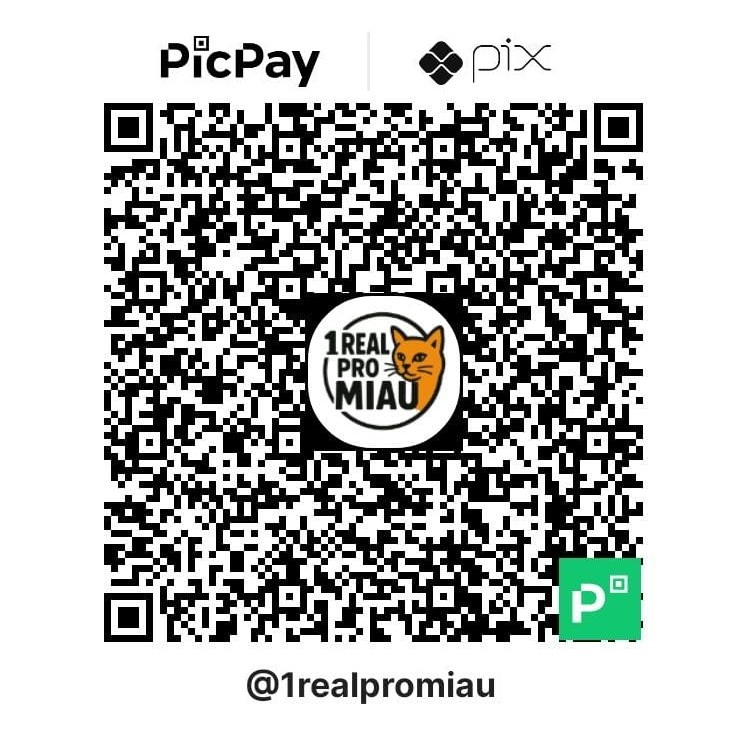
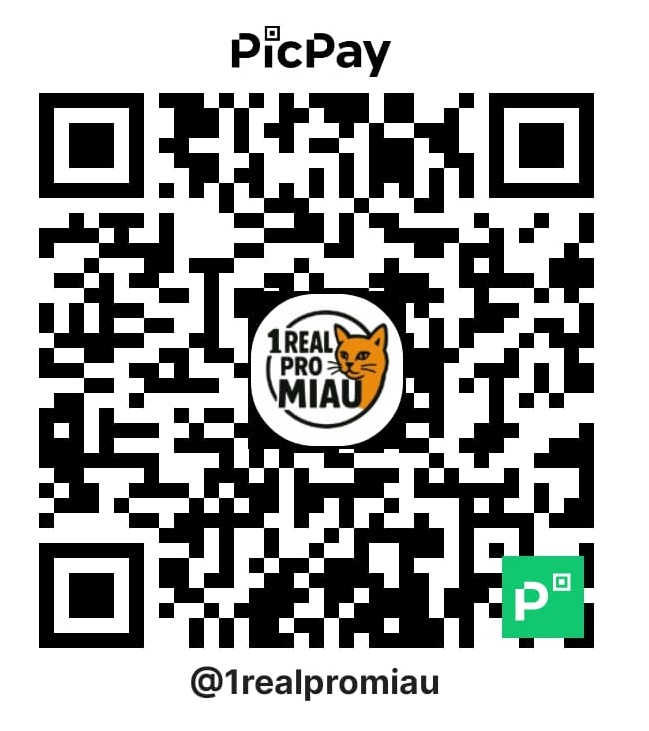
Alterações

diff --git a/index.html b/index.html
@@ -70,7 +70,7 @@
                     <p>Com apenas 1 real você ajuda a alimentar um gato de rua. Todo valor é bem-vindo e faz diferença!</p>
                     
                     <div class="pix-key">
-                        <strong>Chave PIX:</strong> <span id="pix-key">d23daf83-7202-49ab-ac63-1c25ee257680</span>
+                        <strong>Chave PIX:</strong> <span id="pix-key">doar-1realpromiau@outlook.com</span>
                     </div>
                     
                     <button class="btn-copy" id="copy-button">Copiar Chave</button>
